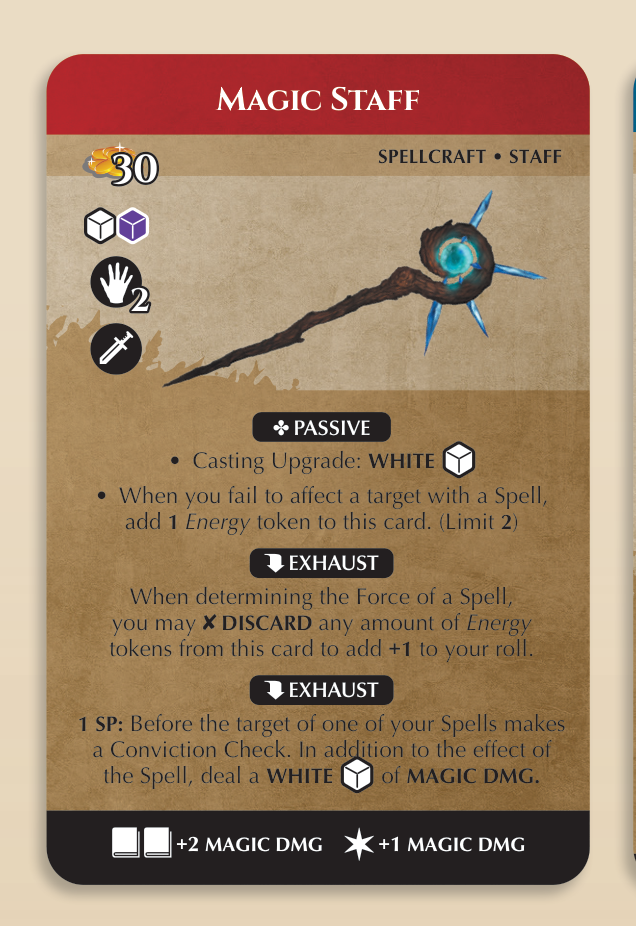
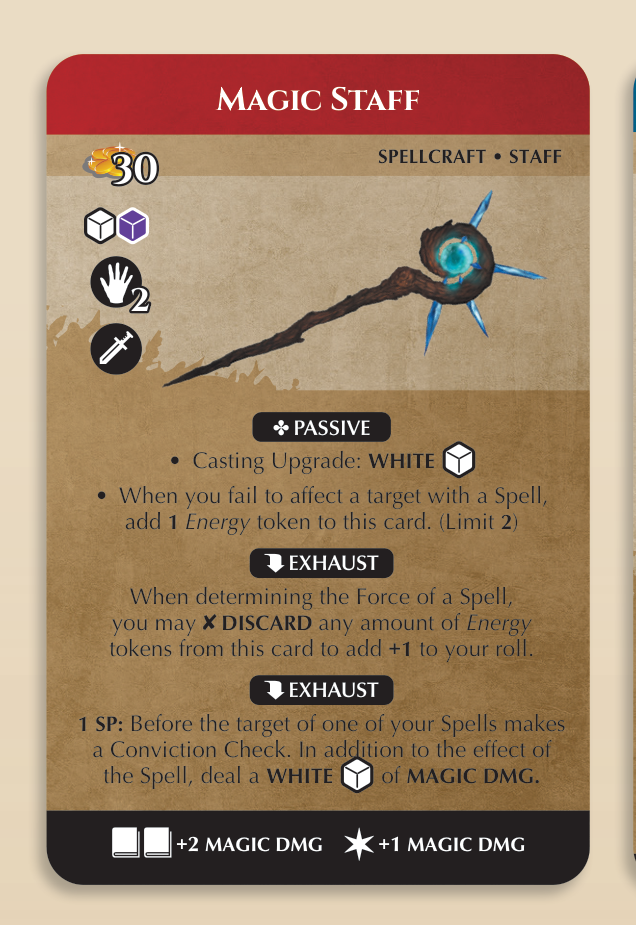
fix: align page33 card crop and preserve assets in dry runs

diff --git a/scripts/apply_component_artwork_overlays.py b/scripts/apply_component_artwork_overlays.py
@@ -41,7 +41,9 @@ TARGETS: list[dict[str, object]] = [
     {"page": 32, "name": "martial-card", "bbox": [85, 456, 244, 566], "category": "discipline-cards"},
     {"page": 32, "name": "sanctus-card", "bbox": [579, 563, 739, 675], "category": "discipline-cards"},
     {"page": 32, "name": "subterfuge-card", "bbox": [85, 668, 244, 782], "category": "discipline-cards"},
-    {"page": 33, "name": "magic-staff-card", "bbox": [422, 58, 581, 289.3], "category": "item-cards"},
+    # p.33: 4x raster grid; source shadow ends at 287.840 pt and the external
+    # Example line starts at 289.393 pt. Do not stretch 926px into 231.3pt.
+    {"page": 33, "name": "magic-staff-card", "bbox": [422, 58, 581, 289.25], "category": "item-cards"},
     {"page": 33, "name": "deflection-core-card", "bbox": [569, 57, 729, 295], "category": "item-cards"},
     {"page": 33, "name": "quick-blow-card", "bbox": [311, 541, 511, 680], "category": "discipline-cards"},
     # Game-table setup and player-aid diagrams.
@@ -220,8 +222,6 @@ def apply_target(document: pymupdf.Document, target: dict[str, object], scale: f
             "region": name,
         })
         overlay_path.write_text(json.dumps(overlays, ensure_ascii=False, indent=2) + "\n", encoding="utf-8")
-    elif asset.exists():
-        asset.unlink()
 
     return {"page": page_number, "region": name, "category": target["category"], "bbox": bbox, "asset": str(asset.relative_to(ROOT))}
 

diff --git a/README.md b/README.md
@@ -36,6 +36,7 @@ To support this without breaking browser rendering, we map special characters to
 
 ## Documentation Index
 
+- `docs/project-progress/2026-10-04-page33-source-review.md`: page 33 source review of the Discipline card, alphabet markers and external legend.
 - `docs/project-progress/2026-10-04-page32-source-review.md`: page 32 source-PDF review of Discipline artwork and adjacent editable prose.
 - `docs/project-progress/2026-10-04-page31-source-review.md`: source-PDF review of page 31 and its confirmed corrections.
 - `docs/project-progress/2026-10-04-page30-source-review.md`: next sequential source-PDF review, with live verification tracked separately.
